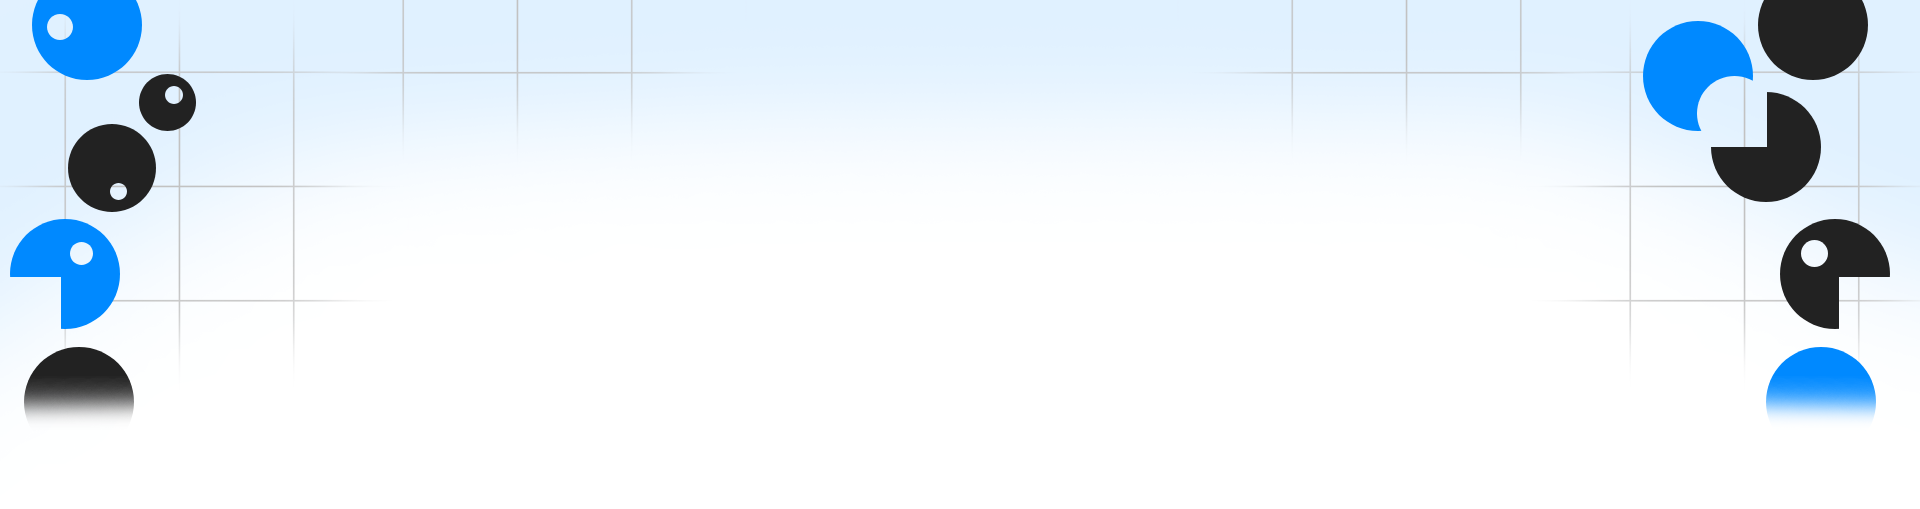
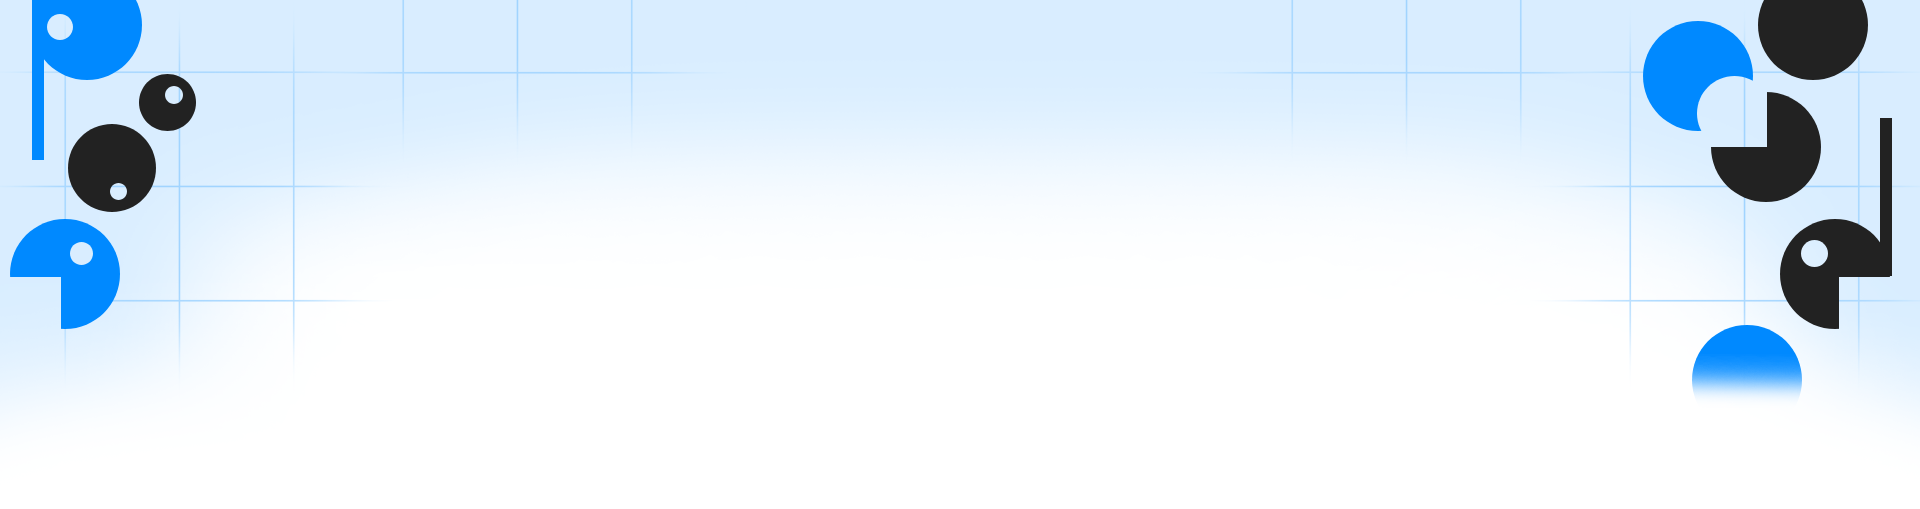
Update config text and update top vector image

diff --git a/src/config.js b/src/config.js
@@ -4,7 +4,7 @@ export const config = {
     content: {
         logo: "/choroidLogo.png",
         brand: "Choroid",
-        heroHeadLine: "Transfoming visions Into Immersive experiences",
+        heroHeadLine: "Transfoming visions Into immersive Experiences",
         projects: [
             {
                 imageUrl: "/websiteProjectPlaceholder1.png",
